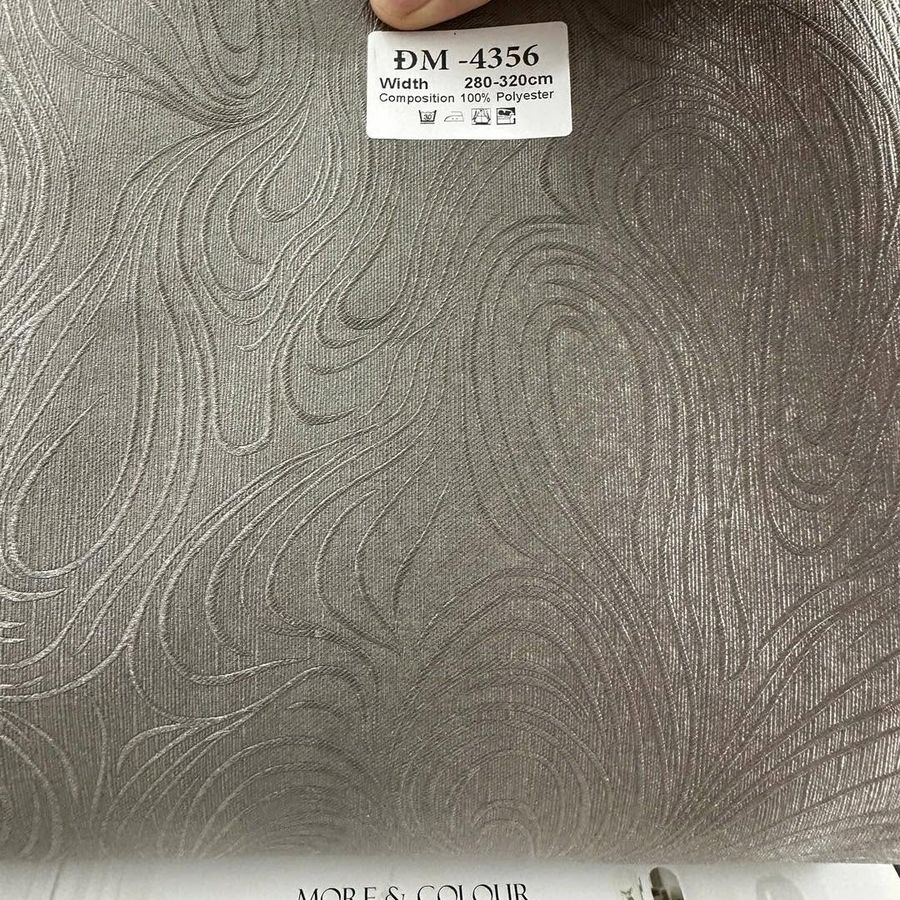
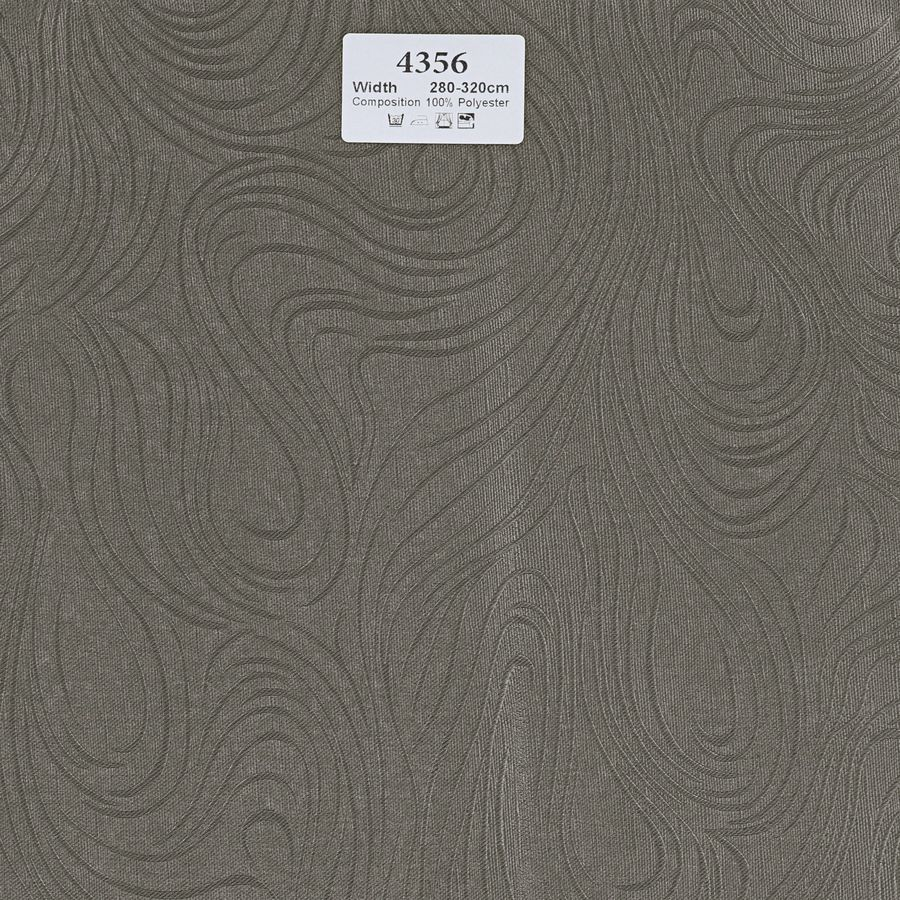
Them 19 ma vai quyen 43 (4310-4366), thay anh moi 4356/4360/4362

diff --git a/lib/data.ts b/lib/data.ts
@@ -69,9 +69,25 @@ export const PRODUCTS: Product[] = [
   { code: "4230", image: "/images/products/dm-4230.jpg" },
   { code: "4232", image: "/images/products/dm-4232.jpg" },
   // Quyển 43
+  { code: "4310", image: "/images/products/dm-4310.jpg" },
+  { code: "4314", image: "/images/products/dm-4314.jpg" },
+  { code: "4316", image: "/images/products/dm-4316.jpg" },
+  { code: "4326", image: "/images/products/dm-4326.jpg" },
+  { code: "4332", image: "/images/products/dm-4332.jpg" },
+  { code: "4334", image: "/images/products/dm-4334.jpg" },
+  { code: "4336", image: "/images/products/dm-4336.jpg" },
+  { code: "4340", image: "/images/products/dm-4340.jpg" },
+  { code: "4342", image: "/images/products/dm-4342.jpg" },
+  { code: "4344", image: "/images/products/dm-4344.jpg" },
+  { code: "4346", image: "/images/products/dm-4346.jpg" },
+  { code: "4350", image: "/images/products/dm-4350.jpg" },
+  { code: "4352", image: "/images/products/dm-4352.jpg" },
+  { code: "4354", image: "/images/products/dm-4354.jpg" },
   { code: "4356", image: "/images/products/dm-4356.jpg" },
   { code: "4360", image: "/images/products/dm-4360.jpg" },
   { code: "4362", image: "/images/products/dm-4362.jpg" },
+  { code: "4364", image: "/images/products/dm-4364.jpg" },
+  { code: "4366", image: "/images/products/dm-4366.jpg" },
 ];
 
 /* ===================== Hàm tiện ích ===================== */
